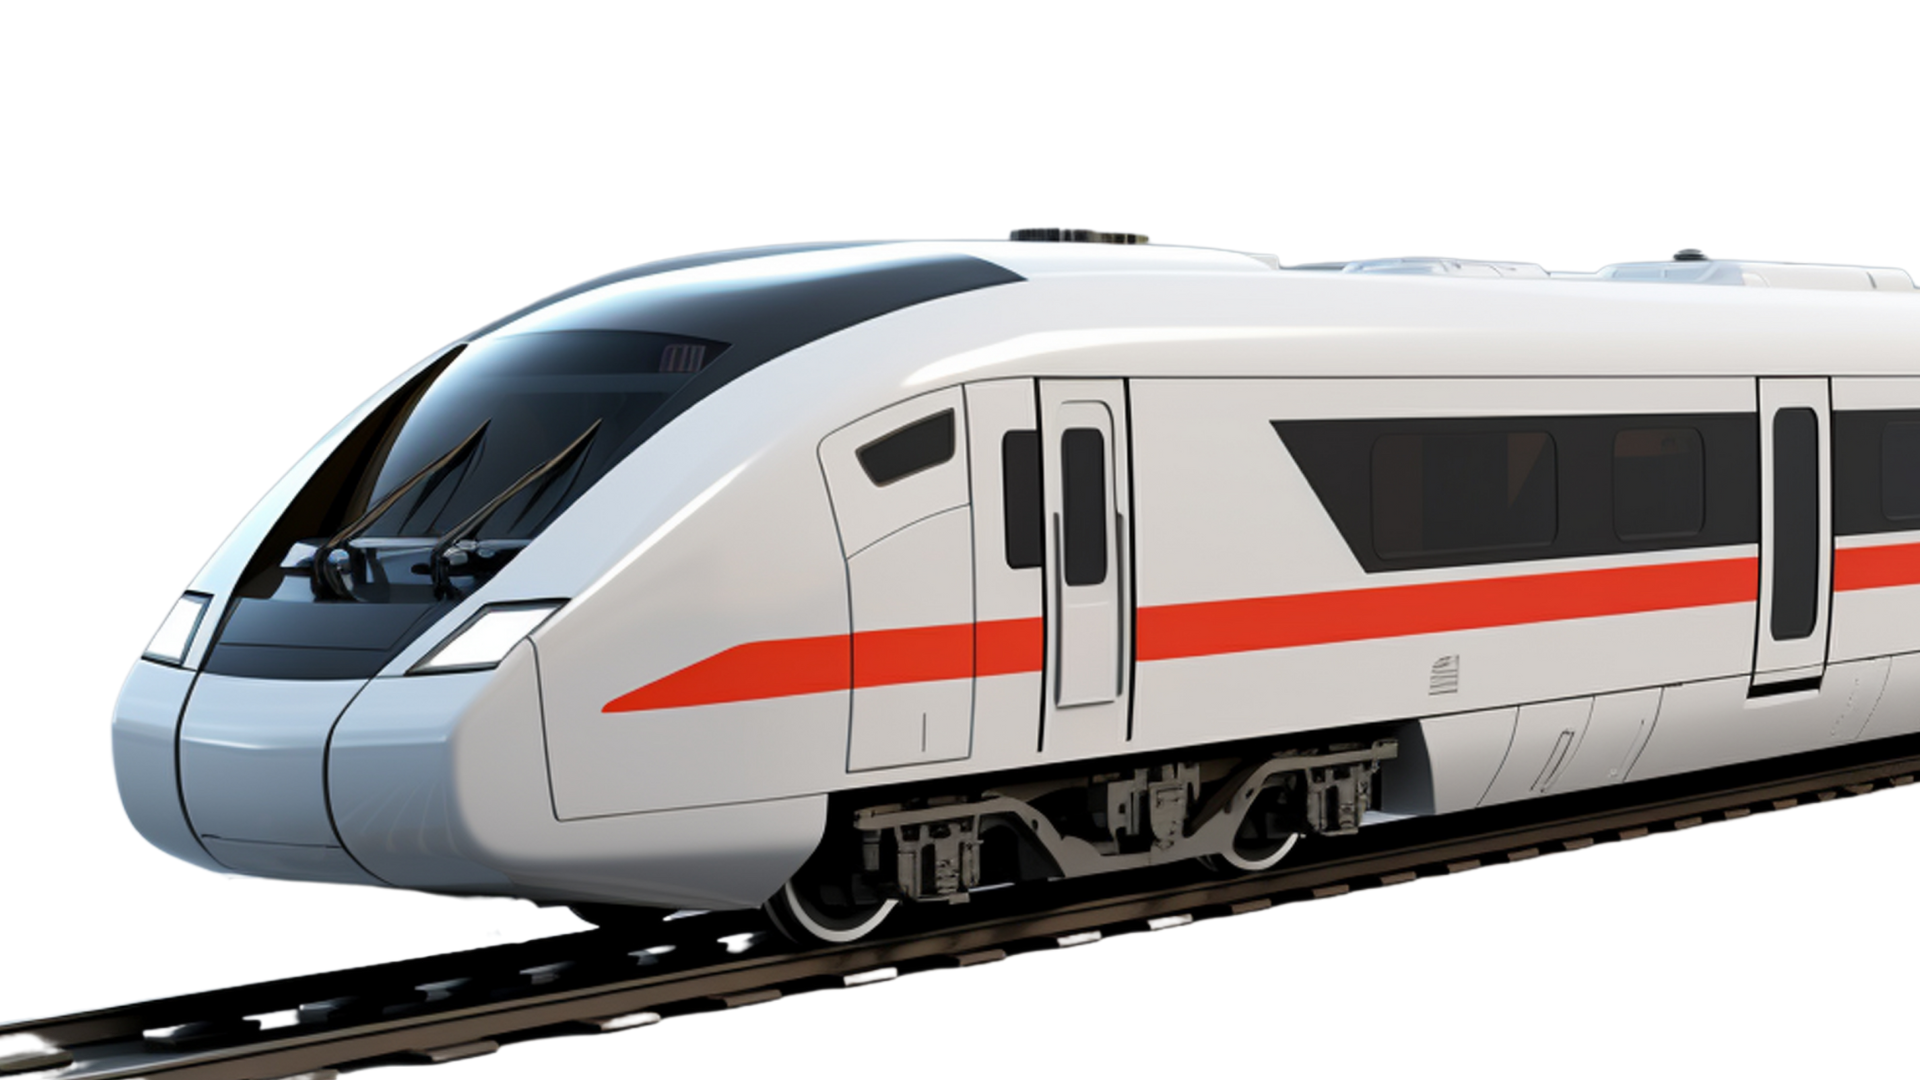
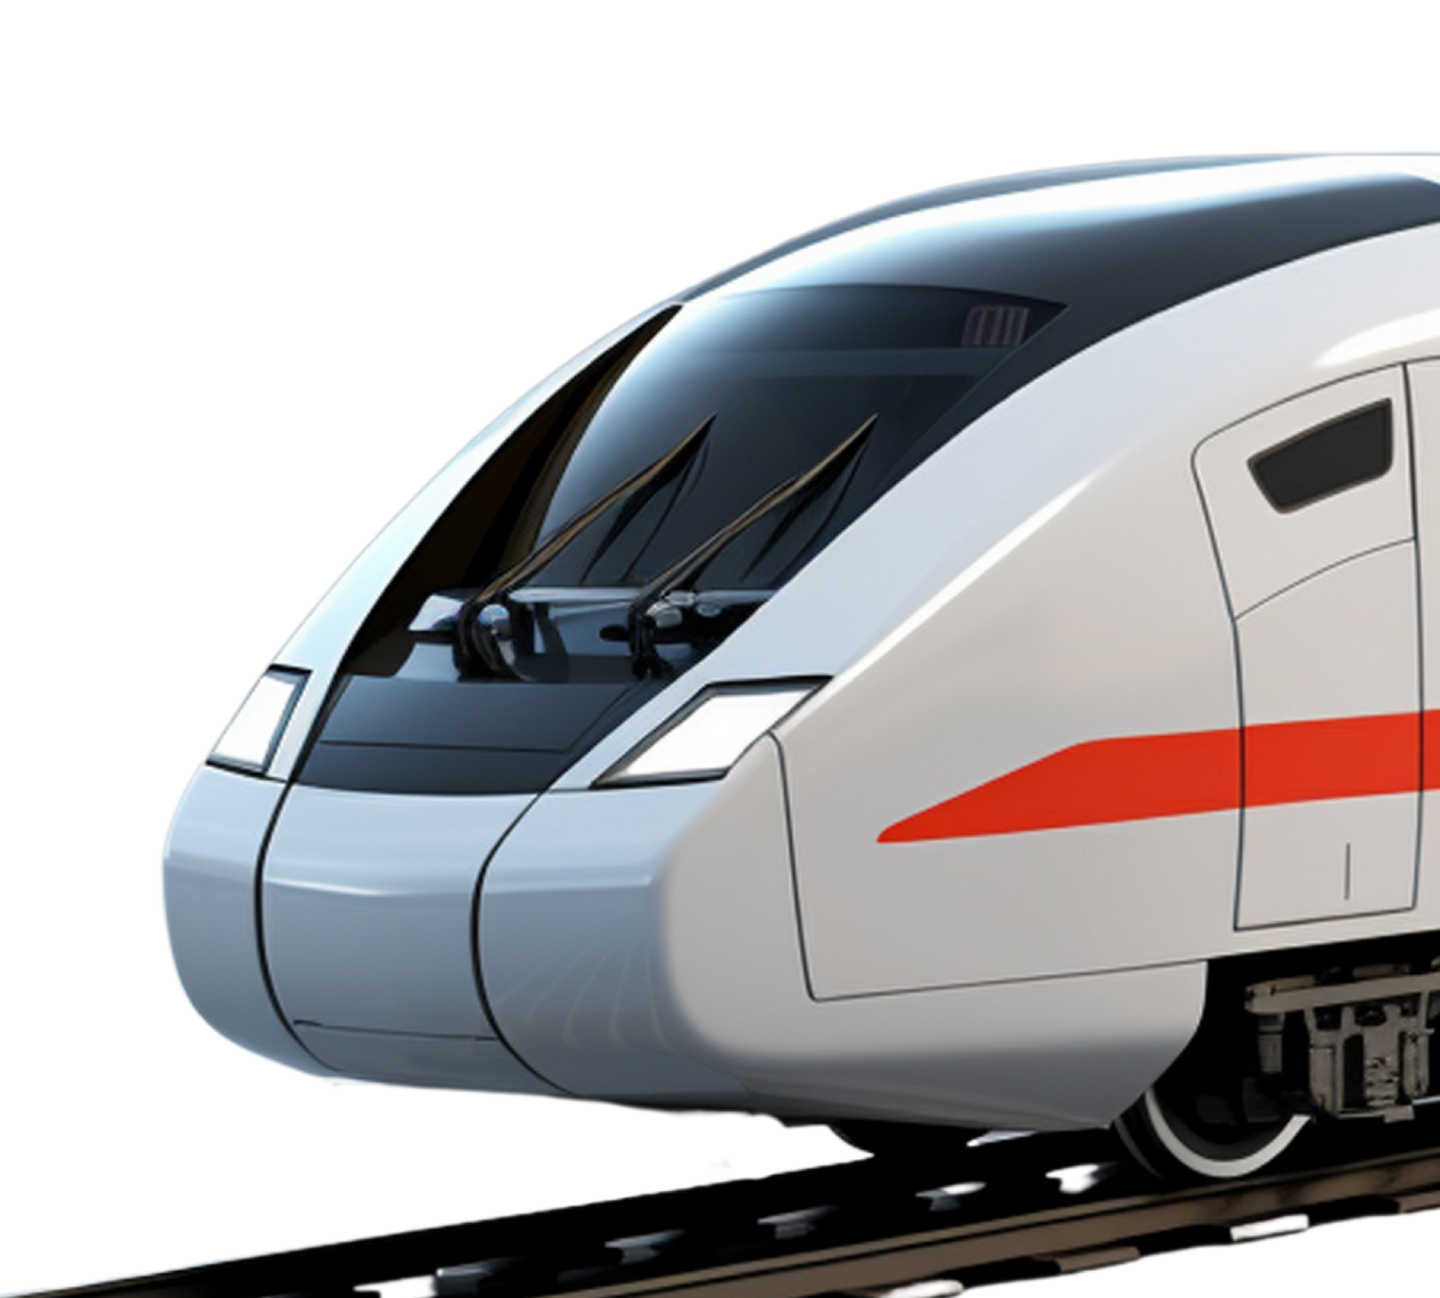
fixed the hero about section

diff --git a/src/components/AboutUs.tsx b/src/components/AboutUs.tsx
@@ -2,7 +2,7 @@ import React from 'react';
 import Image from 'next/image';
 const AboutUs: React.FC = () => {
   return (
-    <div className="w-full flex justify-between gap-20 h-screen bg-white px-5 py-10 font-Raleway">
+    <div className="w-full flex justify-between gap-20 h-screen bg-white px-5 py-10 font-raleway -mt-20 z-40 relative">
       <div className="w-[30%] max-w-xs md:max-w-sm lg:max-w-md ml-10 flex flex-col h-full">
         <div className="flex-1 rounded-xl overflow-hidden">
           <Image

diff --git a/src/components/Hero.tsx b/src/components/Hero.tsx
@@ -35,7 +35,7 @@ const Hero: React.FC = () => {
         <img
           src="/train.png"
           alt="Modern train"
-          className="w-[50%] -mr-96 h-full"
+          className="w-[50%] h-[500px] mt-10"
         />
       
 
